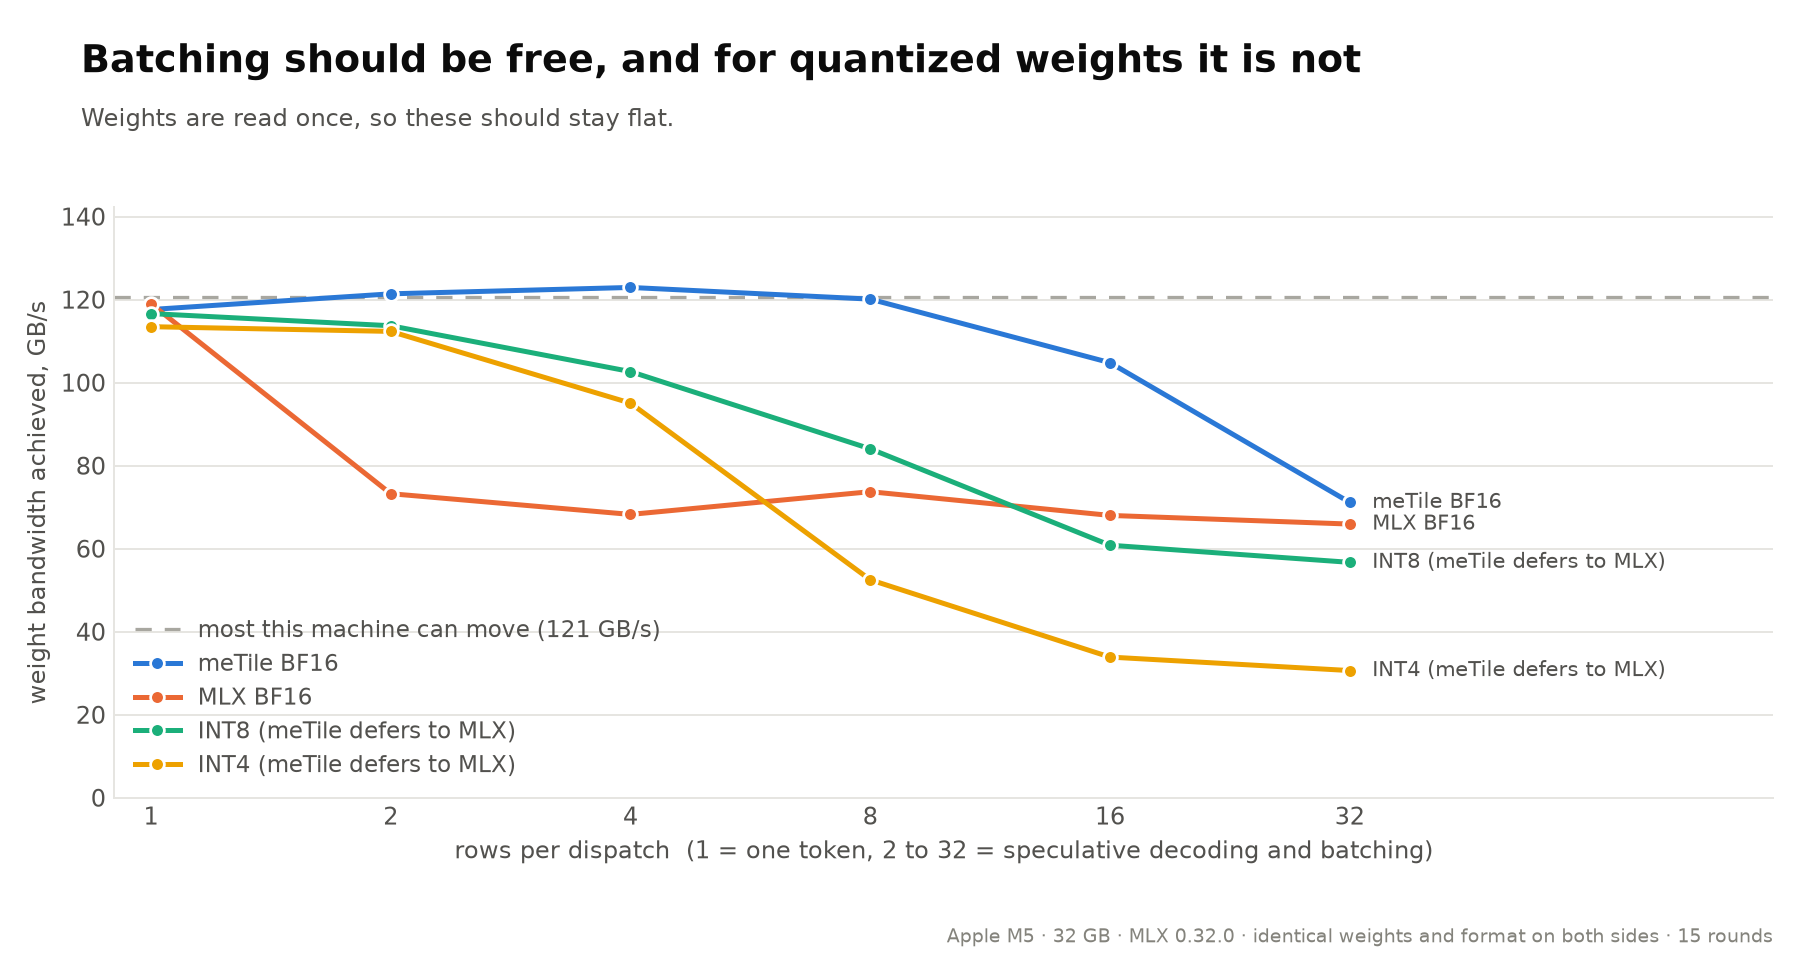
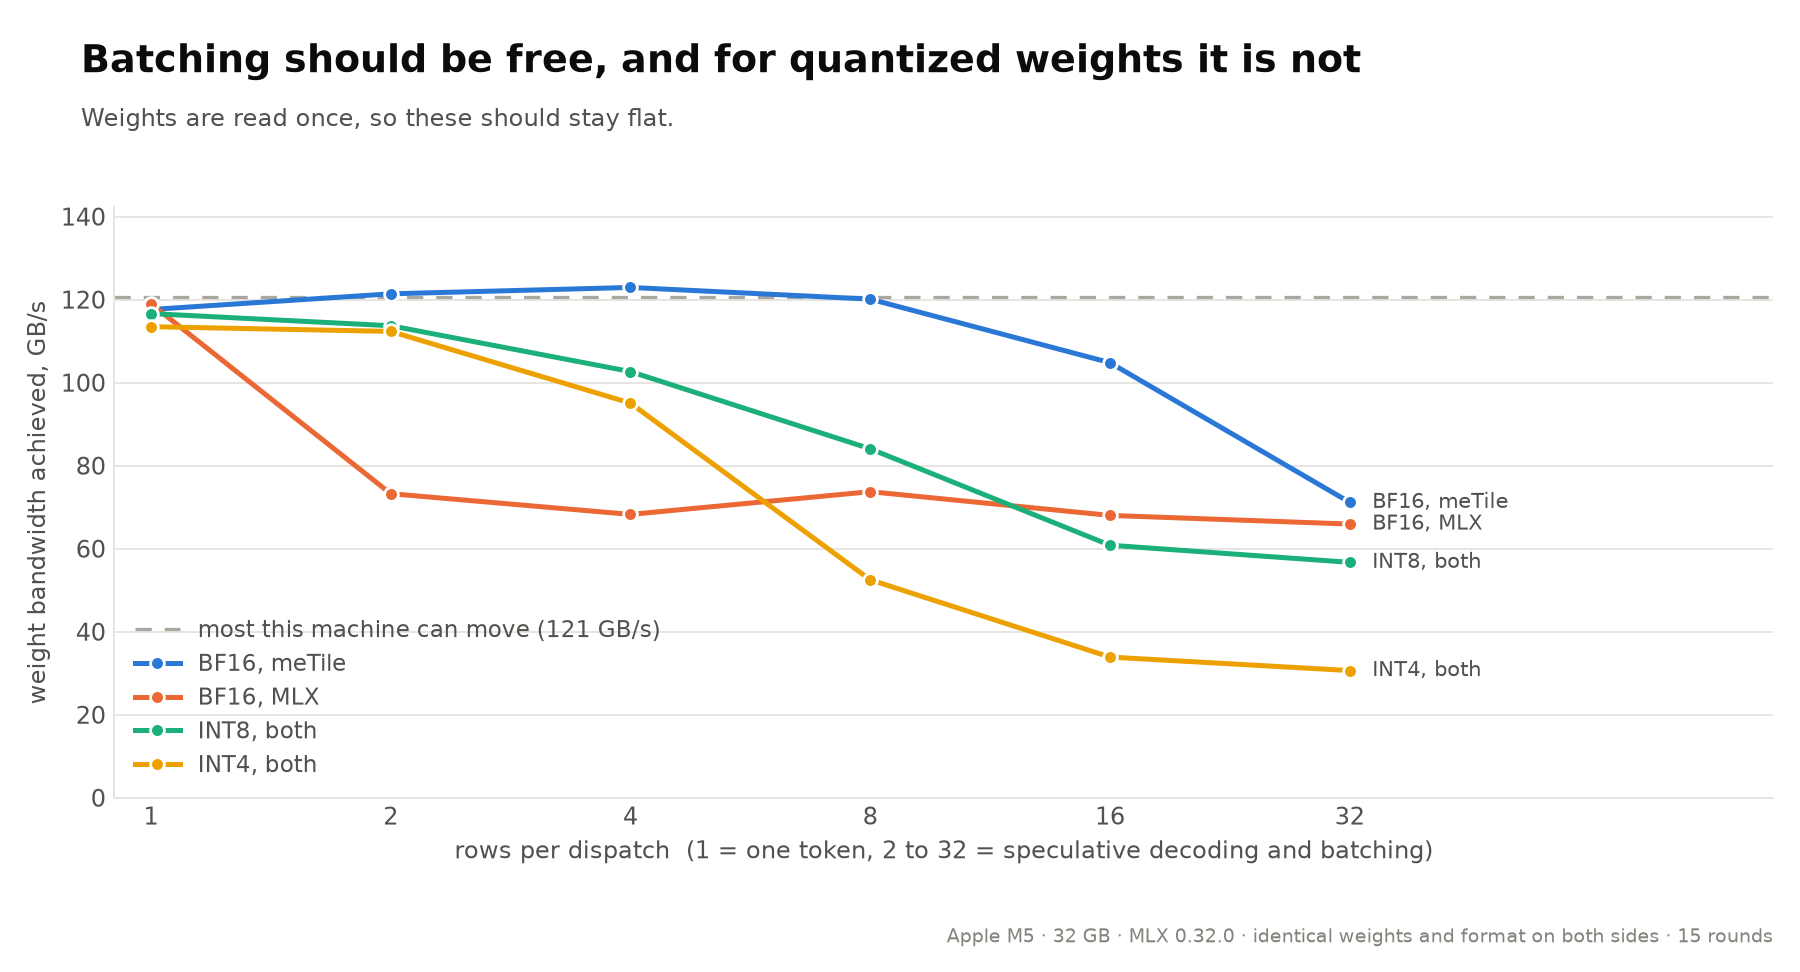
Label the shared quantized lines plainly
For INT4 and INT8 meTile calls MLX's kernel rather than running one of its own, so a
single line describes both backends. "meTile defers to MLX" explained an implementation
detail; "INT4, both" says what the line is.

(cherry picked from commit ea1ea1e005aa0df1011a09d32e08dc78ccfaaf98)

Changed region(s): [[0.0933, 0.6481, 0.28, 0.8025], [0.7467, 0.4938, 0.9333, 0.5864], [0.7778, 0.679, 0.9333, 0.7099]]

diff --git a/benchmarks/render_shape_sensitivity.py b/benchmarks/render_shape_sensitivity.py
@@ -133,16 +133,15 @@ def render_batch(payload, output):
             for record in rows
         )
 
-    # Where meTile has no kernel it hands the shape to MLX, so plotting both would draw
-    # one line on top of another. Say so in the label instead of leaving the reader to
-    # wonder why a series is missing.
-    lines = [("bf16", "metile_bandwidth", style.DECODE, "meTile BF16"),
-             ("bf16", "mlx_bandwidth", style.PREFILL, "MLX BF16")]
+    # For the quantized formats meTile has no kernel of its own and calls MLX's, so one
+    # line describes both backends. That is not two implementations tying, it is the same
+    # code measured twice, so the label says "both" rather than drawing a duplicate.
+    lines = [("bf16", "metile_bandwidth", style.DECODE, "BF16, meTile"),
+             ("bf16", "mlx_bandwidth", style.PREFILL, "BF16, MLX")]
     for format_name, colour in (("int8", style.ACCENT), ("int4", style.FOURTH)):
-        suffix = (
-            " (meTile defers to MLX)" if tracks_mlx(format_name) else " (MLX)"
-        )
-        lines.append((format_name, "mlx_bandwidth", colour, format_name.upper() + suffix))
+        shared = tracks_mlx(format_name)
+        label = f"{format_name.upper()}, {'both' if shared else 'MLX'}"
+        lines.append((format_name, "mlx_bandwidth", colour, label))
     lines = tuple(lines)
     endpoints = []
     for format_name, field, colour, label in lines:
